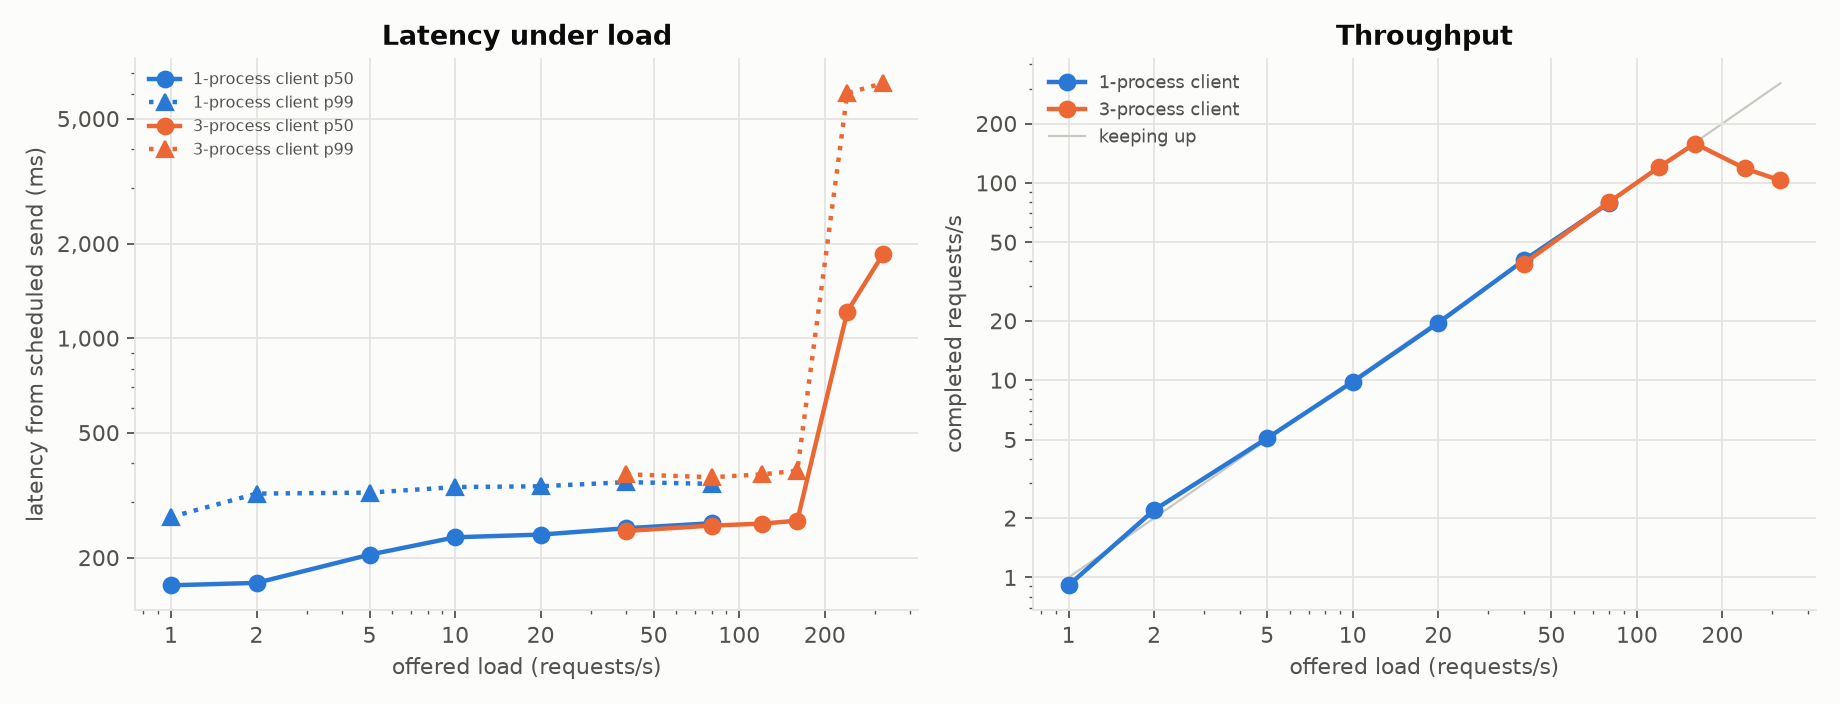
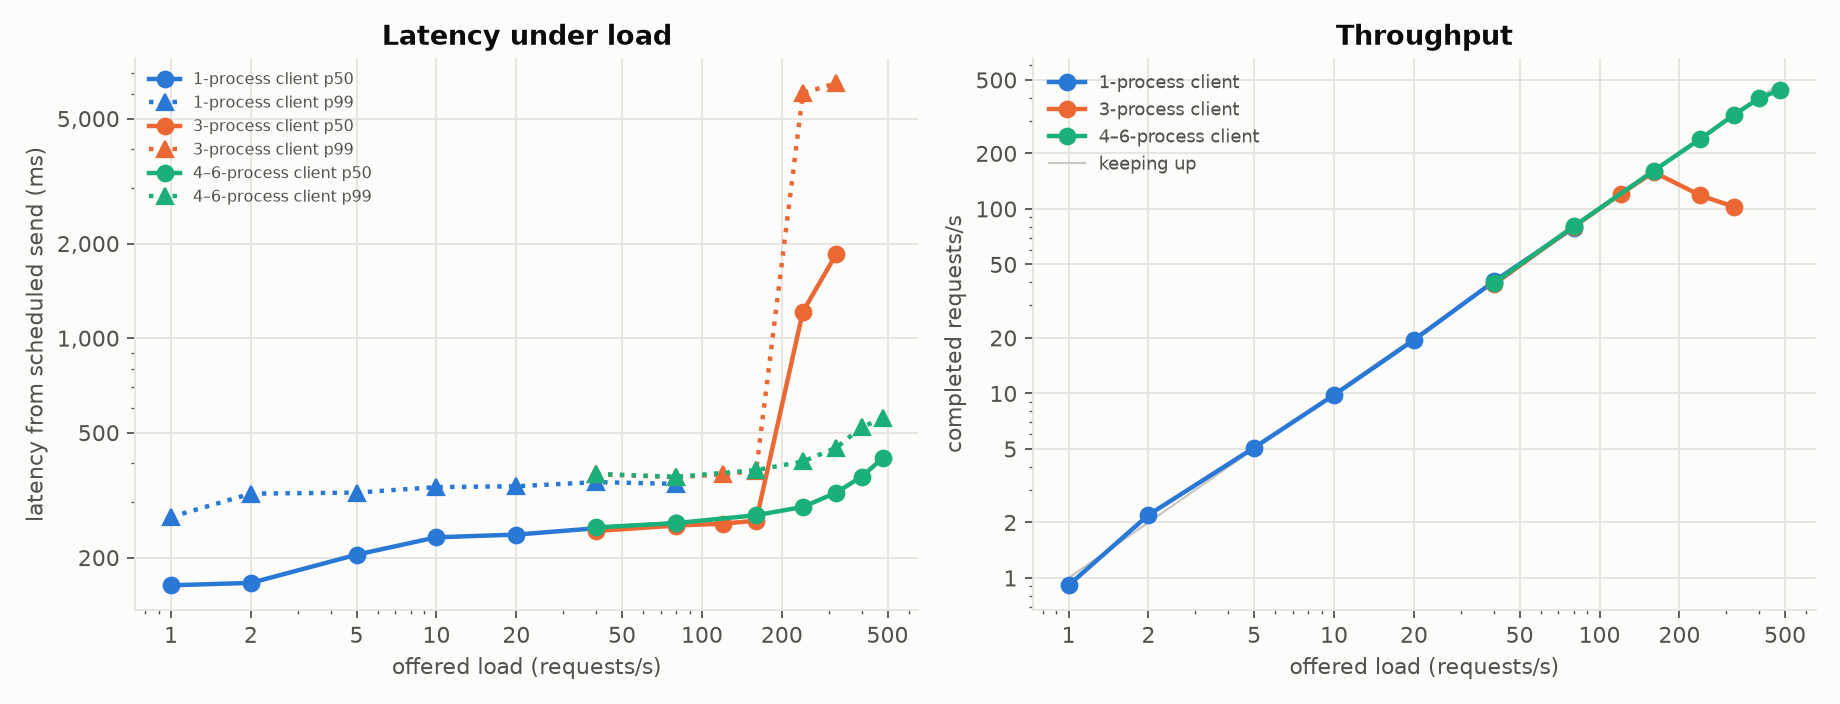
Re-measure eager Triton, series-consistent README, re-runnable up.sh
- Eager Triton with 1 instance was re-measured on a fresh cluster with a
  4-6-process client: it holds ~400 req/s (p99 380 ms at 160 req/s). The
  earlier "collapse at 240 req/s / knee ~160" was the 3-process load
  generator's own limit, and "a second instance doubles capacity" does not
  hold. Write-up sections 4, 7.1, 7.2, 8 and 10, the load tables and the
  three load figures are updated; the raw re-runs are kept alongside the
  original ones in results/load/raw/.
- README: TL;DR and "What we learned" sections, links to the two earlier
  repos and articles in the series, mypy --strict badge and slide link in the
  same style as glukicov/ltm_ft, and no MEDIUM_URL_TBD placeholders.
- k8s/gke/up.sh can be re-run while the cluster is still provisioning: it
  waits for RUNNING and creates the L4 node pool if it is missing.

diff --git a/docs/WRITEUP.md b/docs/WRITEUP.md
@@ -18,10 +18,10 @@ latencies are only good for spotting trends, not for SLOs (see [Measurement cave
 | Biggest win | An **exact context (KV) cache**: encode the training rows once per context, then each request pays only for its own rows. On the L4 a 16-row request with 8,192 context rows went **9.47 s → 129 ms (74×)**. Latency no longer depends on context size (log-log slope 1.12 → 0.06). |
 | Second win | **`torch.compile` + CUDA graphs** on the cached forward: **111 ms → 28 ms** p50 for a 1-row request (p99 134 → 33 ms). The eager floor was kernel-launch overhead, not GPU compute. |
 | Third win | **Batch everything that's independent**: ensemble members in one forward (5× vs the library default of one at a time), and concurrent requests in one batch (exact, because query rows never attend to each other). |
-| Serving on 1× L4 (eager baseline) | FastAPI's continuous batcher saturates at **~285 req/s**. Triton with 1 instance at **~160 req/s** (GIL-bound Python backend using 1 CPU core, GPU ~30% utilised), and with 2 instances on the same GPU at **~300 req/s**, with the best tail latency (p99 443 ms at 240 req/s). |
+| Serving on 1× L4 (eager baseline) | FastAPI's continuous batcher saturates at **~285 req/s** (p99 673 ms at 160 req/s). Triton with 1 instance holds **~400 req/s** (p99 380 ms at 160, 447 ms at 320 req/s) on about one CPU core, because its batcher merges up to ~70 requests per forward under load. A second instance on the same GPU added nothing (~300 req/s, worse tail). An earlier run in which 1-instance Triton "collapsed" at 240 req/s turned out to be the load generator's limit, not the server's (§4). |
 | Kubernetes | KServe (Standard mode) on GKE, weights pulled from GCS, KEDA autoscaling on in-flight requests. **Cold start from zero: 7 min 12 s**, half of it the 13.6 GB image pull. A warm restart takes ~1 min. KEDA asked for a second replica in 28 s; GPU quota (not the autoscaler) blocked it. |
 | Validation | The cache matches stock TabFM to ≤3e-6 in fp32 on CPU, MPS and CUDA, with 100% of labels identical. In bf16, cached and compiled outputs are within stock TabFM's own batch-composition noise (100% label agreement). The HTTP service is tested end to end against stock TabFM with the real model; both stacks run and agree under Docker, kind + KServe and GKE + KServe. |
-| **Optimising the deployed system** | Redeployed both stacks with compilation. **Compiled Triton, 1 instance: p50 91 ms / p99 125 ms at 160 req/s, knee ~350 req/s** (eager: 262 / 378 ms, ~160 req/s). Compiled FastAPI: 97 / 137 ms at 160 req/s, but its knee *dropped* to ~230 req/s because one Python process (1.05 cores) became the ceiling. With compilation, a second Triton instance made things *worse*: the bottleneck moved from host Python to the GPU. The price was a 20–23 min compile warm-up per cold replica (206 s with the compile cache reused). |
+| **Optimising the deployed system** | Redeployed both stacks with compilation. **Compiled Triton, 1 instance: p50 91 ms / p99 125 ms at 160 req/s, knee ~350 req/s** (eager: 273 / 380 ms, knee ~400 req/s: compilation cut latency 3× at a similar capacity). Compiled FastAPI: 97 / 137 ms at 160 req/s, but its knee *dropped* to ~230 req/s because one Python process (1.05 cores) became the ceiling. A second Triton instance made things *worse* when compiled (the two instances only time-slice the GPU) and did not help when eager either. The price was a 20–23 min compile warm-up per cold replica (206 s with the compile cache reused). |
 
 ---
 
@@ -241,7 +241,12 @@ and the client runs across processes (`--procs`).
 
 **The client was the bottleneck first.** With one client process, Triton looked like it collapsed at 160 req/s
 (43 req/s completed, p50 4.9 s). But Triton's own metrics showed an empty queue and a GPU at 30%. The fix was
-pre-serialised bodies and 3–4 client processes, after which the same server held 160 req/s at p50 262 ms:
+pre-serialised bodies and 3–4 client processes, after which the same server held 160 req/s at p50 262 ms.
+
+**It bit a second time.** The 3-process client itself topped out around 240 req/s, and its backlog looked like a
+server collapse: the first version of §7.1 reported "Triton, 1 instance: knee ~160 req/s" from that run. A
+re-measurement of the same deployment with 4–6 client processes (fresh cluster, 2026-09-14) held 400 req/s. All
+three client sizes against the same server:
 
 ![client bottleneck](figures/load_gke_client_bottleneck.png)
 
@@ -339,20 +344,28 @@ open-loop client running in-cluster. These are **eager** runs; compiled results 
 | Stack (1× L4) | 80 req/s p50 / p99 | 160 req/s p50 / p99 | 240 req/s p50 / p99 | Knee |
 |---|---|---|---|---|
 | FastAPI, continuous batcher | 270 / 381 ms | 314 / 673 ms | 406 / 850 ms | ~285 req/s |
-| Triton, 1 instance | 253 / 361 ms | 262 / 378 ms | collapses (118 req/s done) | ~160 req/s |
-| Triton, 2 instances (same GPU) | 237 / 372 ms | 266 / 410 ms | **317 / 443 ms** | ~300 req/s |
+| Triton, 1 instance | 258 / 362 ms | 273 / 380 ms | **290 / 405 ms** | ~400 req/s (322 / 447 ms at 320; 83 of 12,162 dropped at 400) |
+| Triton, 2 instances (same GPU) | 237 / 372 ms | 266 / 410 ms | 317 / 443 ms | ~300 req/s (366 / 1,754 ms at 320) |
 
 Reading the table:
 
-- **The Triton 1-instance bottleneck was host CPU, not the GPU.** At overload, `nv_gpu_utilization` was ~0.3 and the
-  Triton pod used exactly one core. A Python-backend instance is one process with one GIL doing preprocessing plus
-  thousands of kernel launches per batch. **A second instance on the same GPU doubled capacity** (18.8 of 23 GB used,
-  leaving no room for a third).
-- **FastAPI gets more out of one model copy** because its batcher forms large batches under load (25,225 requests
-  in 995 batches, ~25 requests per batch, ~192 ms per batch). But HTTP/JSON handling and the model share one Python
-  process, so **its tail latency is worse** (p99 673 ms vs 378 ms at 160 req/s).
-- **Triton with 2 instances has the best latency at every load** at the cost of a second copy of weights and cache.
-  With Triton, that trade-off is one config line.
+- **One eager Triton instance is enough for ~400 req/s, and it does it on one CPU core.** The pod sat at ~1 core
+  (one Python-backend process, one GIL) and the GPU was well under-utilised, but that process is not the limit at
+  these rates: Triton's dynamic batcher merges everything that queued during the previous forward, so batches grew
+  from ~21 requests at 240 req/s to ~73 at 400+ (61,262 inferences in 1,386 executions over the sweep), and a
+  ~190 ms eager forward per batch keeps up. Requests start being dropped at ~400 req/s (client `max_inflight`).
+- **The first version of this table said the opposite** (knee ~160 req/s, collapse at 240). That run used a
+  3-process client that saturated at ~240 req/s itself (§4); the "collapse" was client backlog. Re-measured with
+  4–6 client processes, the same deployment held 320 req/s at p99 447 ms. The old numbers are kept in
+  `results/load/raw/gke_triton_i1.jsonl`; the corrected ones in `raw/gke_triton_i1_remeasured_*.jsonl`.
+- **A second instance on the same GPU did not add capacity** (18.8 of 23 GB used, so no room for a third anyway).
+  It was slightly slower at every load and its tail blew up at 320 req/s, because two instances split the queue into
+  smaller batches and interleave on one GPU. The "second instance doubled capacity" conclusion of the first run was
+  an artefact of comparing a 4-process client against a 3-process one.
+- **FastAPI is the weaker eager stack.** Its batcher also forms large batches under load (25,225 requests in 995
+  batches, ~25 per batch, ~192 ms per batch), but HTTP/JSON handling and the model share one Python process, so
+  **its tail latency is worse** (p99 673 ms vs 380 ms at 160 req/s) and it saturates earlier (~285 vs ~400 req/s).
+  A re-measurement on 2026-09-14 gave the same picture (340 / 750 ms at 160 req/s, knee ~300).
 
 ### 7.2 Compiled serving
 
@@ -365,7 +378,7 @@ graphs, query rows padded to power-of-two buckets, every bucket up to `max_batch
 
 | Triton on 1× L4 | 80 req/s p50 / p99 | 160 req/s | 240 req/s | 320 req/s | Knee |
 |---|---|---|---|---|---|
-| eager, 1 instance | 253 / 361 ms | 262 / 378 ms | collapses | – | ~160 req/s |
+| eager, 1 instance | 258 / 362 ms | 273 / 380 ms | 290 / 405 ms | 322 / 447 ms | ~400 req/s |
 | eager, 2 instances | 237 / 372 ms | 266 / 410 ms | 317 / 443 ms | 366 / 1,754 ms | ~300 req/s |
 | **compiled, 1 instance** | **85 / 117 ms** | **91 / 125 ms** | **99 / 137 ms** | **112 / 315 ms** | **~350 req/s** |
 | compiled, 2 instances | 118 / 198 ms | 154 / 218 ms | 169 / 266 ms | 186 / 257 ms | ~320 req/s |
@@ -390,13 +403,16 @@ process.
 
 What changed, and why:
 
-- **3× lower latency and ~2× the capacity from the same GPU and a single instance.** Compilation removed the
-  Python dispatch that had been the bottleneck.
-- **The instance-count decision flipped.** In eager mode a second instance doubled capacity, because the limit was
-  one GIL-bound host process. Compiled, the **GPU** is the limit, so a second instance only time-slices it: both
-  instances form smaller batches and interleave their CUDA graphs. Two compiled instances were slower than one at
-  every load. *The right number of model instances per GPU depends on where the bottleneck is, and moves when you
-  optimise.* That's why it has to be re-measured after each change rather than set once.
+- **3× lower latency at every load, from the same GPU and a single instance.** Compilation removed the Python
+  dispatch that dominated each forward. It did *not* raise the knee: eager already reached ~400 req/s by forming
+  ~70-request batches, and compiled tops out around 350 req/s (the compiled forward is short, so batches stay small
+  and the Python stub's per-request work becomes the ceiling sooner). The win is p99 138 ms instead of 405 ms at
+  240 req/s, which is what makes a latency SLO reachable (§8).
+- **A second instance never helped, and compiled it clearly hurt.** Compiled, the **GPU** is the limit, so a second
+  instance only time-slices it: both instances form smaller batches and interleave their CUDA graphs, and every
+  load point was slower. Eager, the second instance was also slightly slower (§7.1). *Instance count has to be
+  measured, not assumed*: the intuition "one GIL, so add instances" was wrong for this model on this GPU, and it
+  looked right only until the load generator was fixed.
 - **The cost is cold start.** Capturing 9 row buckets took **1,372 s (23 min)** in the first Triton instance, so the
   pod was 28 min from apply to Ready. The second instance, loaded through the repository API into the same pod,
   took **206 s**, because inductor's on-disk cache from the first instance was reused. Persisting that cache
@@ -432,8 +448,8 @@ takes seconds). Requests never re-encode. This single change is worth 2–74× d
 real data, and batch all members in one forward.
 
 **4. Remove Python from the hot path, in this order:** compile the forward with shape buckets and warm-up before
-ready (4×); run more model instances per GPU than one GIL can feed; keep HTTP/JSON out of the model process
-(Triton's C++ front end, or a separate API tier).
+ready (4×); keep HTTP/JSON out of the model process (Triton's C++ front end, or a separate API tier); only then
+consider more model instances per GPU, and measure them, because here a second instance never paid off.
 
 **5. Batch by default.** Exact for this model. Continuous batching with a small row cap; measure `max_queue_delay`
 rather than guess it (at 0 ms, merging under load already gave 5–25 requests per batch).
@@ -484,8 +500,8 @@ one L4, compiled Triton with 1 instance):
 | Problem | Symptom | Fix / lesson |
 |---|---|---|
 | Another process on the laptop | Mac sweeps 2–7× slower; cached 1-row latency 879 ms instead of 128 ms | Check what else is running; keep contended results separate; re-run |
-| Load-generator bottleneck | "Saturation" at 160 req/s while Triton's queue was empty and GPU 30% | Pre-serialised bodies, multi-process client; always read the server's queue and utilisation |
-| Triton Python backend GIL | GPU ~30% utilised, pod at 1 core | Two instances on one GPU (2× capacity); compile to cut dispatch |
+| Load-generator bottleneck, twice | "Saturation" at 160 req/s (1 client process) and later a "collapse" at 240 req/s (3 processes) while Triton's queue was empty and GPU ~30% | Pre-serialised bodies, 4–6 client processes; always read the server's queue and utilisation. The 3-process run was published as a Triton result before the re-measurement caught it |
+| Triton Python backend GIL | GPU ~30% utilised, pod at 1 core | Not the limit at ≤400 req/s: batches grow to ~70 requests. Compile to cut dispatch (3× latency); a second instance never helped |
 | Rolling update with one GPU | New pod Pending forever; autoscaler "GCE quota exceeded" | `deploymentStrategy: Recreate` for single-GPU workloads |
 | KServe default CPU limit | `requests.cpu: 3 must be ≤ cpu limit of 1` on a custom-container predictor | Always set `limits.cpu` explicitly (it would otherwise also throttle silently) |
 | GPU driver not found in `python:3.12-slim` | `RuntimeError: Found no NVIDIA driver` on GKE | `LD_LIBRARY_PATH=/usr/local/nvidia/lib64` (NVIDIA base images set it; slim images don't) |
@@ -513,6 +529,10 @@ one L4, compiled Triton with 1 instance):
   exact to ~1e-6.
 - **Synthetic data.** Latency depends on table shape, not content. Quality conclusions (ensemble size) are about
   these tasks only.
+- **Re-measured on 2026-09-14.** The eager Triton 1-instance rows (§7.1, §7.2, the load figures) come from an
+  independent re-run on a fresh cluster with a 4–6-process client, after the original 3-process run was found to
+  be client-limited. The GPU sweeps, cold starts and compiled runs were re-run at the same time and matched the
+  original numbers within ~10%.
 
 ## Reproduce
 

diff --git a/README.md b/README.md
@@ -7,7 +7,7 @@
 [![Python 3.14](https://img.shields.io/badge/python-3.14-blue)](.python-version)
 [![uv](https://img.shields.io/endpoint?url=https://raw.githubusercontent.com/astral-sh/uv/main/assets/badge/v0.json)](https://github.com/astral-sh/uv)
 [![Ruff](https://img.shields.io/endpoint?url=https://raw.githubusercontent.com/astral-sh/ruff/main/assets/badge/v2.json)](https://github.com/astral-sh/ruff)
-[![Checked with mypy](https://www.mypy-lang.org/static/mypy_badge.svg)](https://mypy-lang.org/)
+[![mypy --strict](https://img.shields.io/badge/mypy-strict-2a6db2)](https://mypy-lang.org)
 <br>
 [![TabFM](https://img.shields.io/badge/Google-TabFM-4285F4)](https://github.com/google-research/tabfm)
 [![PyTorch](https://img.shields.io/badge/PyTorch-torch.compile-EE4C2C?logo=pytorch&logoColor=white)](https://pytorch.org)
@@ -15,7 +15,7 @@
 [![KServe](https://img.shields.io/badge/KServe-v0.20-2E5EA8)](https://kserve.github.io/website/)
 [![Kubernetes / GKE](https://img.shields.io/badge/Kubernetes-GKE%20%C2%B7%20L4-326CE5?logo=kubernetes&logoColor=white)](https://cloud.google.com/kubernetes-engine)
 
-**[Results](#results) · [What's inside](#whats-inside) · [Quickstart](#quickstart) · [Layout](#layout) · [Licence](#licence) · [Why](MEDIUM_URL_TBD)**
+**[Results](#results) · [What we learned](#what-we-learned) · [What's inside](#whats-inside) · [Quickstart](#quickstart) · [Layout](#layout) · [Write-up](docs/WRITEUP.md) · [Slides](docs/slides)**
 
 </div>
 
@@ -28,14 +28,32 @@ TabFM learns *in context*: every call sends the labelled training rows and the r
 transformer together. That means no training step, but an online service built on stock TabFM pays for the whole
 context on every request. The fix turns out to be exact, and most of this repo is about what comes after it.
 
-<!-- TODO: replace MEDIUM_URL_TBD (here, in the nav above and in the footer) with the Medium article URL. -->
-The story behind it: **[Medium article — link coming soon](MEDIUM_URL_TBD)** 📖
-<br>
-Not a reader? **[Slides](docs/slides/inference-lessons-2026-09-13.html)** 🎞 — GitHub shows HTML as source, so
-[view them in the browser](https://htmlpreview.github.io/?https://github.com/glukicov/ltm_serve/blob/main/docs/slides/inference-lessons-2026-09-13.html)
-or download the file and open it locally.
+This is the third repo in a series. [glukicov/ltm](https://github.com/glukicov/ltm) showed TabFM matching a trained
+CatBoost model *without any training*
+([article](https://medium.com/@lukicov/i-tried-to-make-an-llm-fail-on-tabular-data-it-didnt-sort-of-428d89acdb51)),
+and [glukicov/ltm_ft](https://github.com/glukicov/ltm_ft) fine-tuned it on a laptop and on a GPU in GKE
+([article](https://medium.com/@lukicov/i-fine-tuned-a-1-6b-tabular-foundation-model-on-my-laptop-and-a-gpu-in-kubernetes-65c5a5f679c6)).
+This one asks what it takes to serve it.
+
+**TL;DR**
+
+- 🐢 **Stock TabFM re-reads the whole training table on every request.** Its attention masks mean that work can be
+  cached exactly, like an LLM's KV cache: **9.47 s → 129 ms (74×)** at 8,192 context rows, and latency stops
+  depending on context size.
+- 🐍 **Then the GPU sat idle while Python launched kernels.** `torch.compile` + CUDA graphs took the cached forward
+  from **111 ms to 28 ms**.
+- 🤥 **The load generator was the bottleneck, twice.** Triton "collapsed" at 160 req/s and later at 240 req/s while
+  its own queue was empty; with enough client processes, one eager Triton instance held **~400 req/s**.
+- 🔄 **Compiled Triton on one L4: p50 91 ms / p99 125 ms at 160 req/s**, 3× lower latency than eager. A second
+  instance on the same GPU never helped, and compiled it was slower at every load.
+- ☸ **Kubernetes set the rest of the bill:** 7 min 12 s cold start from zero GPU nodes, a 20–23 min compile
+  warm-up per cold replica, and KEDA scaling straight into *"GCE quota exceeded"*.
 
 **The full write-up is [`docs/WRITEUP.md`](docs/WRITEUP.md)**: every phase, every number, and why.
+
+> Reading not your game? Slides instead: [HTML + PDF](docs/slides) 🖥 (produced with [SlideOps](https://github.com/glukicov/slideops)).
+> GitHub shows HTML as source, so [view the deck in the browser](https://htmlpreview.github.io/?https://github.com/glukicov/ltm_serve/blob/main/docs/slides/inference-lessons-2026-09-13.html)
+> or open the PDF.
 
 ## Results
 
@@ -63,15 +81,17 @@ latency no longer depends on context size (log-log slope 1.12 → 0.06).
 |---|---:|---:|
 | FastAPI, continuous batcher, eager | 314 / 673 ms | ~285 req/s |
 | FastAPI, compiled | 97 / 137 ms | ~230 req/s |
-| Triton, 1 instance, eager | 262 / 378 ms | ~160 req/s |
+| Triton, 1 instance, eager | 273 / 380 ms | ~400 req/s |
 | Triton, 2 instances on the same GPU, eager | 266 / 410 ms | ~300 req/s |
 | **Triton, 1 instance, compiled** | **91 / 125 ms** | **~350 req/s** |
 | Triton, 2 instances, compiled | 154 / 218 ms | ~320 req/s |
 
 - **Compiling cut latency ~3× and moved the bottleneck.** Compiled FastAPI's knee *dropped*, because one Python
   process (1.05 cores) became the ceiling; Triton's C++ front end keeps request handling out of the model process.
-- **The right instance count flipped.** Eager, a second Triton instance doubled capacity (host Python was the limit);
-  compiled, it made things worse (the GPU was the limit).
+- **Compiling buys latency, not capacity, here.** Eager Triton already reached ~400 req/s by merging ~70 requests
+  per batch; compiled it tops out near 350 req/s but at a third of the latency, which is what makes an SLO reachable.
+- **A second instance per GPU never helped.** Eager it added nothing; compiled it was slower at every load (two
+  instances time-slice one GPU). An earlier "collapse at 160 req/s" was the load generator, and was re-measured.
 - **Cold start is the price.** From zero GPU nodes an eager Triton replica took **7 min 12 s** to become Ready
   (3 m 31 s of it pulling a 13.6 GB image); capturing the compiled shape buckets added a **20–23 min** warm-up per
   cold replica.
@@ -85,6 +105,26 @@ latency no longer depends on context size (log-log slope 1.12 → 0.06).
 > trends, not SLOs. In bf16, "exact" means within stock TabFM's own batch-composition noise, with 100% label
 > agreement. TabFM's pretrained weights are licensed for **non-commercial use only**: fine for learning and
 > benchmarking, not for production.
+
+## What we learned
+
+1. **Read the model before you optimise it.** One property of TabFM's attention masks (rows only attend to the
+   training rows) made both the context cache and cross-request batching *exact*. No generic trick would have found
+   a 74× win.
+2. **For an in-context model, the context is the expensive resource.** Each cached context costs ~198 KB per row per
+   member: 1.6 GB for 1,024 rows and 8 members, so one L4 holds 8–10 of them. Cache bytes, not requests per second,
+   size the fleet first.
+3. **Batching buys throughput; compiling buys latency.** Eager Triton already reached ~400 req/s by merging ~70
+   requests per forward. Compiling did not raise that knee, but cut p99 at 240 req/s from 405 ms to 138 ms, which is
+   what makes a latency SLO reachable.
+4. **Measure the instance count; don't derive it.** "One GIL, so add instances" sounded right and was wrong in both
+   modes: a second instance on the same GPU never helped, and compiled it only time-sliced the GPU.
+5. **Prove the load generator isn't the bottleneck.** Read the server's own queue and GPU utilisation before
+   believing a saturation point. This caught one wrong result during the project and a second one only on an
+   independent re-run.
+6. **Compile warm-up is a cold-start cost.** Capturing the shape buckets took 20–23 min per cold replica, far more
+   than the 13.6 GB image pull, and 206 s when inductor's cache was reused. Autoscale compiled replicas without a
+   persisted cache and the new capacity arrives half an hour late.
 
 ## What's inside
 
@@ -212,6 +252,6 @@ See [CONTRIBUTING.md](CONTRIBUTING.md).
 <div align="center">
 <br>
 
-**[Results](#results) · [Write-up](docs/WRITEUP.md) · [Slides](docs/slides/inference-lessons-2026-09-13.html) · [Article](MEDIUM_URL_TBD) · [TabFM](https://github.com/google-research/tabfm)**
+**[Results](#results) · [Write-up](docs/WRITEUP.md) · [Slides](docs/slides) · [glukicov/ltm](https://github.com/glukicov/ltm) · [glukicov/ltm_ft](https://github.com/glukicov/ltm_ft) · [TabFM](https://github.com/google-research/tabfm)**
 
 </div>
